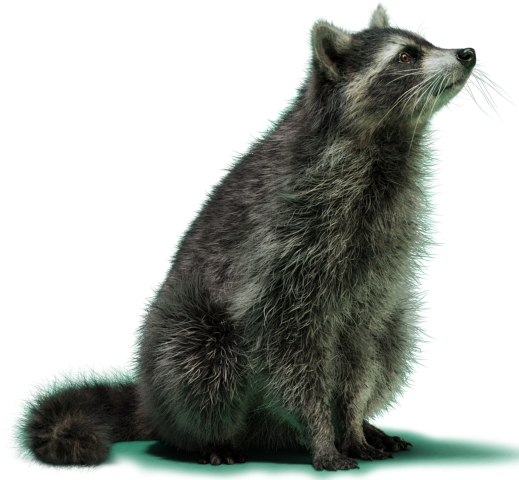
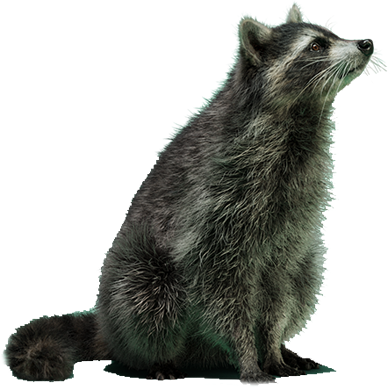
site following second set of wireframes

Changed region(s): [[0.0, 0.0, 1.0, 1.0]]

diff --git a/survey_frontend/src/pages/Question_page.jsx b/survey_frontend/src/pages/Question_page.jsx
@@ -50,6 +50,49 @@ function Question_page({
       submitResponse();
     }, 1500);
   }
+
+  const imageMap = {
+    CHIPMUNK: "/images/CHIPMUNK_HERO_2.png",
+    "SNOW DROP": "/images/FLOWER_HERO.png",
+    CLOUDS: "/images/CLOUD_HERO.png",
+    HUMMINGBIRD: "/images/HUMMINGBIRD_HERO.png",
+    RACOON: "/images/RACCOON_HERO.png",
+  };
+
+  const imageStyles = {
+    CLOUDS: {
+      backgroundSize: "cover",
+      backgroundPosition: "center",
+      height: "150px",
+      width: "300px",
+    },
+    HUMMINGBIRD: {
+      backgroundSize: "cover",
+      backgroundPosition: "center",
+      height: "170px",
+      width: "250px",
+    },
+
+    "SNOW DROP": {
+      backgroundSize: "cover",
+      backgroundPosition: "center",
+      height: "110px",
+      width: "290px",
+    },
+
+    RACOON: {
+      backgroundSize: "cover",
+      backgroundPosition: "center",
+      height: "190px",
+      width: "200px",
+    },
+    CHIPMUNK: {
+      backgroundSize: "cover",
+      backgroundPosition: "center",
+      height: "170px",
+      width: "250px",
+    },
+  };
   return (
     <>
       <Flex
@@ -62,21 +105,27 @@ function Question_page({
           {questionList[selectedValue].question}
         </Text>
         <div
-          style={{
+          /*  style={{
             display: "flex",
             justifyContent: "space-around",
             alignItems: "center",
             width: "100%",
+          }}*/
+          style={{
+            display: "grid",
+            //gridTemplateColumns: "1fr 1fr 1fr",
+            gridTemplateColumns: "repeat(3, minmax(0, 1fr))",
+
+            gridTemplateRows: "1fr ",
+            width: "100%",
+            justifyItems: "center",
+            alignItems: "center",
           }}
         >
           <div
             style={{
-              backgroundImage: "url(/images/RACCOON_HERO.png)",
-              position: "absolute",
-              backgroundSize: "cover",
-              backgroundPosition: "center",
-              height: "170px",
-              width: "180px",
+              backgroundImage: `url(${imageMap[selectedValue]})`,
+              ...imageStyles[selectedValue],
             }}
           ></div>
           <Flex {...buttonGroupStyle}>
@@ -90,8 +139,7 @@ function Question_page({
                     ? {
                         transform: "scale(1.2)",
                         opacity: 0.85,
-                        transition:
-                          "transform 0.5s ease-in-out, color 0.5s ease-in-out",
+                        transition: "transform 0.5s ease-in-out",
                         backgroundColor: "#80fcac",
                       }
                     : {}),
@@ -103,7 +151,17 @@ function Question_page({
               </Button>
             ))}
           </Flex>
-          <p>image</p>
+          <div
+            style={{
+              backgroundImage: "url(/images/CAR_HERO.png)",
+              backgroundSize: "cover",
+              backgroundPosition: "center",
+              height: "240px",
+              width: "460px",
+              marginTop: "60px",
+              //  marginLeft: "70px",
+            }}
+          ></div>
         </div>
 
         <Button {...confirmButtonStyle} visibility="hidden">

diff --git a/survey_frontend/src/pages/final_page.jsx b/survey_frontend/src/pages/final_page.jsx
@@ -48,22 +48,32 @@ function Final({ JSON_data, selectedValue }) {
   };
   return (
     <>
-      <Flex {...flexStyles}>
-        <Text {...questionOneStyle} fontSize="95px">
+      <div
+        style={{
+          display: "grid",
+          gridTemplateRows: "1fr 2fr",
+          height: "80vh",
+          width: "80vw",
+          marginBottom: "60px",
+        }}
+      >
+        <Text {...questionOneStyle} fontSize="200px" width={"100%"}>
           {questionList["FINAL"].question}
         </Text>
         <div
           style={{
-            position: "absolute",
-            left: "2%",
-            bottom: "5%",
-            backgroundImage: `url(${imageMap[selectedValue]})`,
+            backgroundImage: "url(/images/CAR_HERO.png)",
             backgroundSize: "cover",
             backgroundPosition: "center",
-            ...styleMap[selectedValue],
+            //height: "240px",
+            //  width: "460px",
+            width: "100%",
+            flex: "1",
+            //marginTop: "60px",
+            marginLeft: "70px",
           }}
         ></div>
-      </Flex>
+      </div>
     </>
   );
 }

diff --git a/survey_frontend/src/pages/app.jsx b/survey_frontend/src/pages/app.jsx
@@ -62,14 +62,14 @@ function App() {
       image: "/images/skoda_background.png",
     },
     questionOne: {
-      fontSize: "5xl",
+      fontSize: "6xl",
       color: "white",
       fontStyle: "skoda_bold, sans-serif",
       textAlign: "center",
       width: "100%",
     },
     questionTwo: {
-      fontSize: "4xl",
+      fontSize: "40px",
       color: "white",
       fontStyle: "skoda_bold, sans-serif",
       textAlign: "center",
@@ -246,7 +246,7 @@ function App() {
       >
         <Flex
           position="absolute"
-          bottom="12"
+          bottom="8"
           justifyContent="center"
           color="var(--skoda-logo-500)"
           width={"100%"}

diff --git a/survey_frontend/src/pages/Select_metaphor.jsx b/survey_frontend/src/pages/Select_metaphor.jsx
@@ -62,9 +62,9 @@ function Select_metaphor({
       position: "absolute",
       backgroundSize: "cover",
       backgroundPosition: "center",
-      height: "120px",
-      width: "250px",
-      top: "15%",
+      height: "150px",
+      width: "300px",
+      top: "13%",
       left: "35%",
       transform: `translateX(-50%)`,
     },

diff --git a/survey_frontend/src/survey_components/logo_svg.jsx b/survey_frontend/src/survey_components/logo_svg.jsx
@@ -5,8 +5,8 @@ const LogoSvg = () => {
       xmlns="http://www.w3.org/2000/svg"
       xmlnsXlink="http://www.w3.org/1999/xlink"
       viewBox="0 0 200.94 70.38"
-      width="200"
-      height="70"
+      width="220"
+      height="90"
       style={{ marginTop: "20px", marginLeft: "20px" }}
     >
       <defs>
